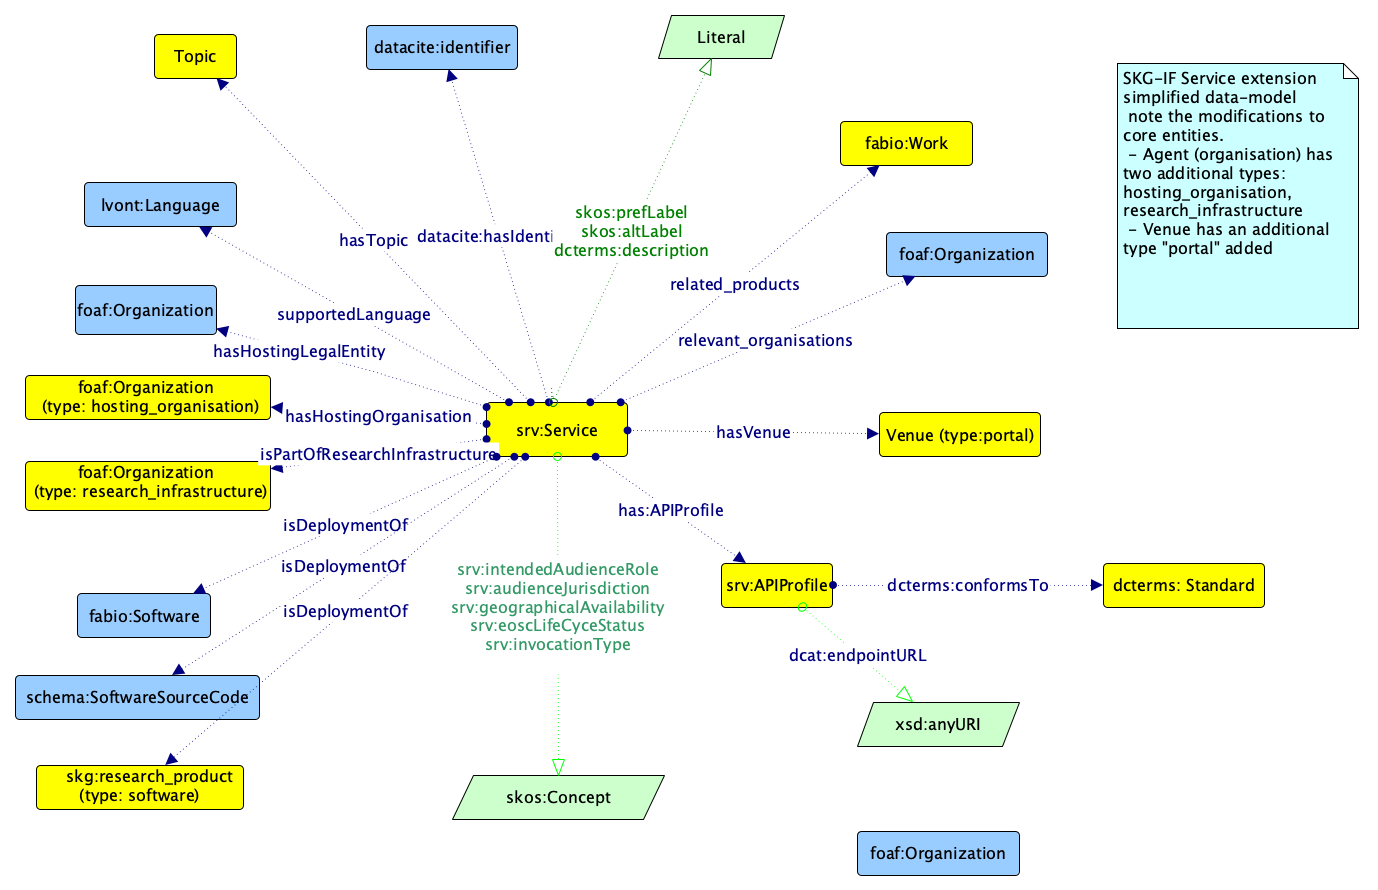
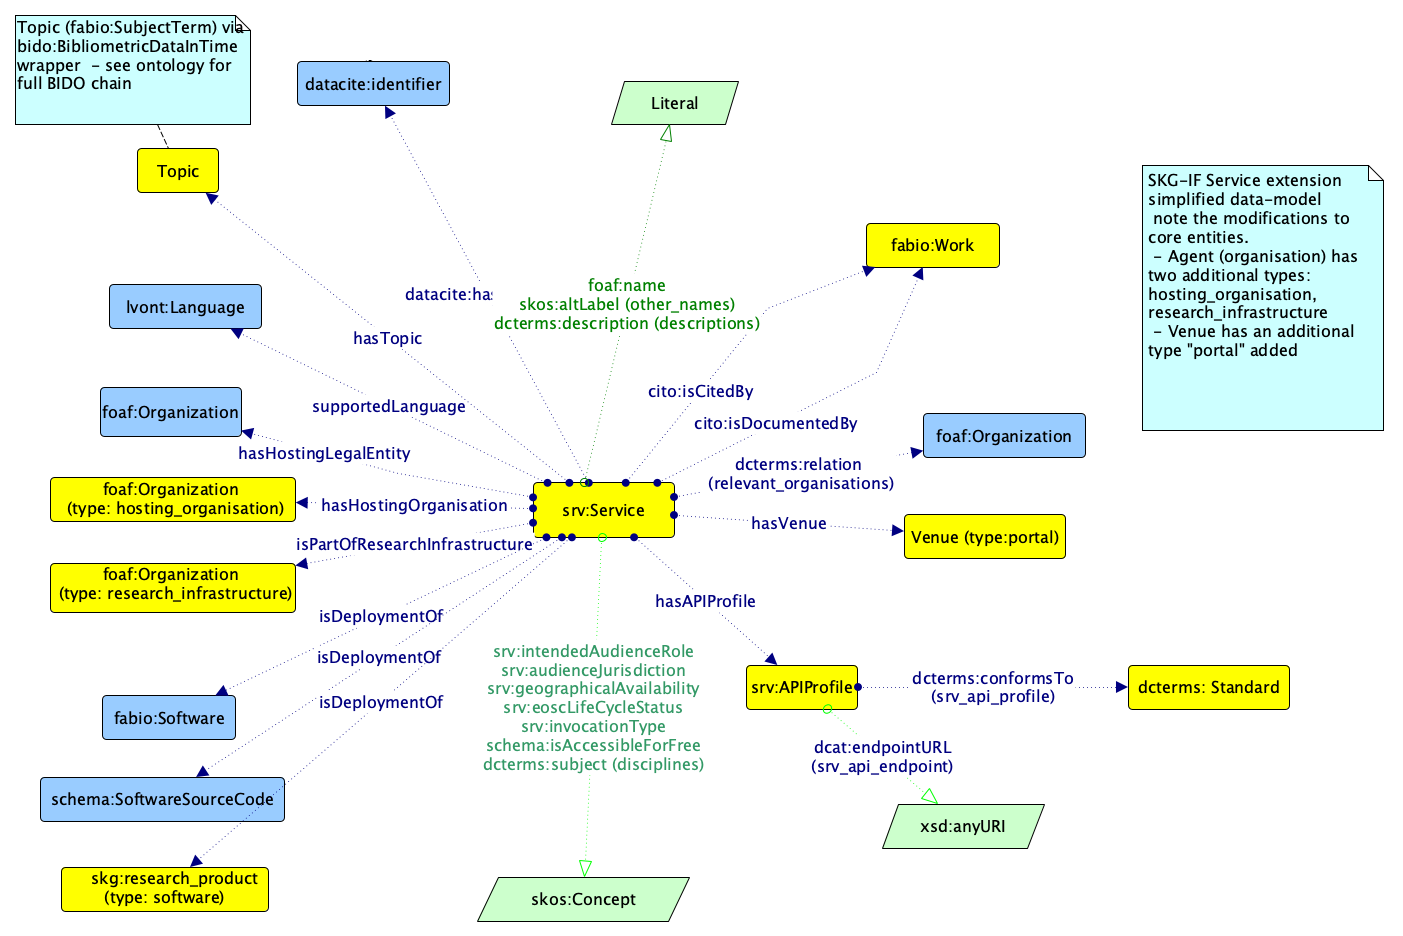
data-model: fix foaf:name in ontology; update Graffoo diagram with missing properties and aliases

diff --git a/extended-interoperability-framework/index.md b/extended-interoperability-framework/index.md
@@ -34,7 +34,7 @@ The Service entity can be linked to core SKG-IF entities:
 - **Research products** via `srv_deployment_of` (software deployed by the service) and `related_products` (conceptually related products)
 - **Organisations** via `srv_has_hosting_organisation`, `srv_has_research_infrastructure`, `srv_has_hosting_legal_entity`, and `relevant_organisations`
 - **Venues** via `srv_venues`
-- **Topics** via `disciplines` and `srv_topics`
+- **Topics** via `disciplines` and `topics`
 
 For the full property specification, see the [Service] documentation.
 
